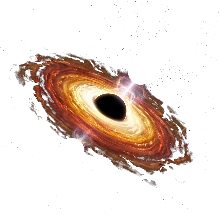
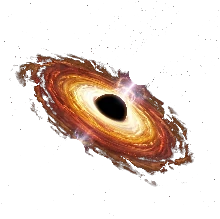
Universe: quasar base aligned to the pixel, cache bust
Claude-Session: https://claude.ai/code/session_01EXMUytzutzxdVzuuB6cfqW

diff --git a/domiers/universe/index.html b/domiers/universe/index.html
@@ -919,7 +919,7 @@ html.lite .alien svg{filter:none!important}
   <h1>ALJADY R. INTERVENTIONS</h1>
   <p class="gsig"><span lang="fr">Bande originale de</span><span lang="en">Original soundtrack by</span><span lang="it">Colonna sonora originale di</span> <b>LucaTaraz</b></p>
   <button class="go" id="goMusic"><span lang="fr">Entrer avec la musique</span><span lang="en">Enter with music</span><span lang="it">Entra con la musica</span></button>
-  <button class="edb" id="edOpen" type="button"><span class="edq" aria-hidden="true"><img class="eds" src="img/quasar-base.webp" alt="" width="84" height="84"><img class="edp" src="img/quasar-jet.webp" alt="" width="84" height="84"></span><span lang="fr">Lire l’édit</span><span lang="en">Read the edict</span><span lang="it">Leggi l’editto</span></button>
+  <button class="edb" id="edOpen" type="button"><span class="edq" aria-hidden="true"><img class="eds" src="img/quasar-base.webp?v=2" alt="" width="84" height="84"><img class="edp" src="img/quasar-jet.webp?v=2" alt="" width="84" height="84"></span><span lang="fr">Lire l’édit</span><span lang="en">Read the edict</span><span lang="it">Leggi l’editto</span></button>
   <button class="mute" id="goSilent"><span lang="fr">Entrer sans son</span><span lang="en">Enter without sound</span><span lang="it">Entra senza suono</span></button>
   <div class="langs"><button class="lang" data-l="fr" aria-pressed="true">FR</button><button class="lang" data-l="en" aria-pressed="false">EN</button><button class="lang" data-l="it" aria-pressed="false">IT</button></div>
 </div></div>
